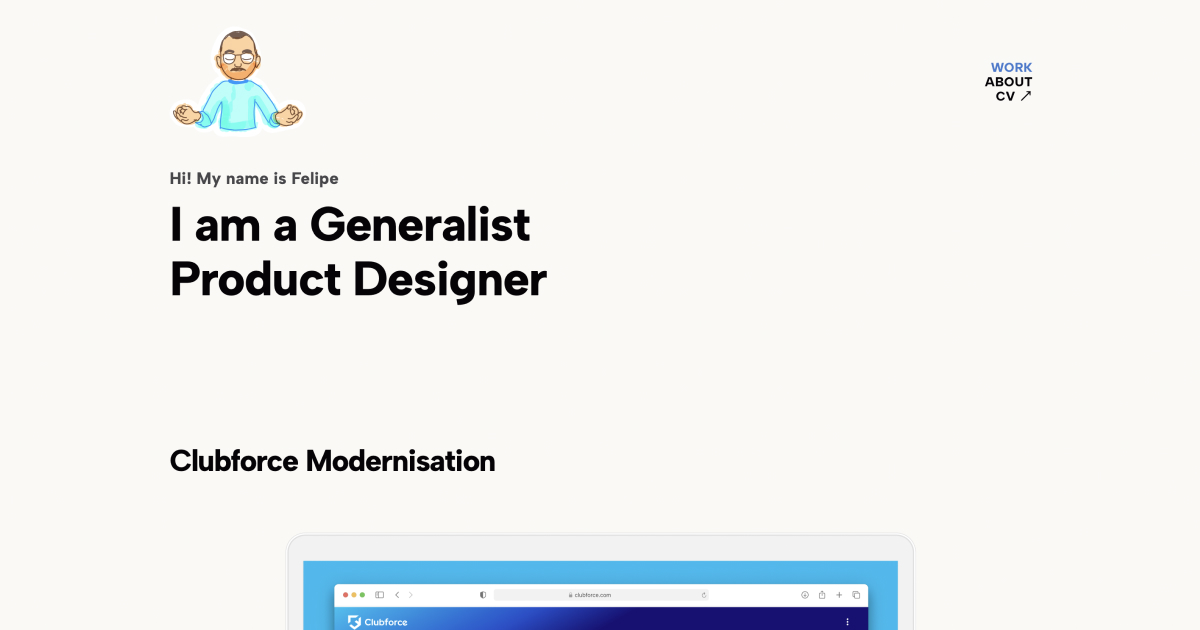
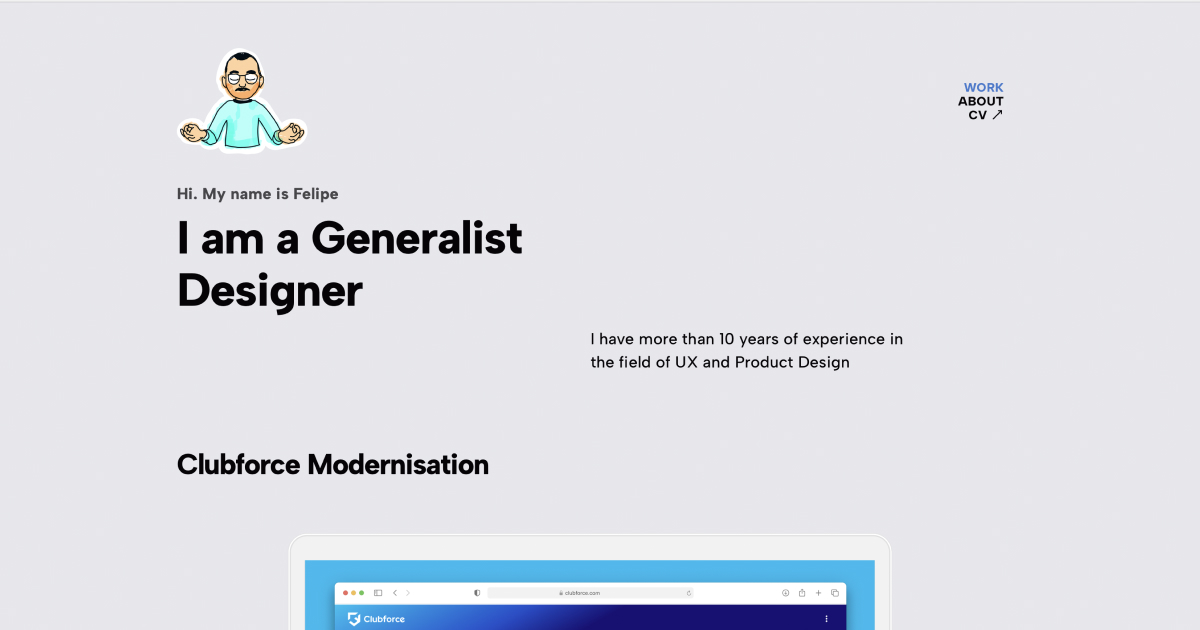
quick fixes

diff --git a/index.html b/index.html
@@ -1,8 +1,8 @@
 ---
 layout: default
-overtitle: Hi! My name is Felipe
-title: I am a Generalist Product Designer
-description: Solving problems — big and small — through thoughtful design.
+overtitle: Hi. My name is Felipe
+title: I am a Generalist Designer
+description: I have more than 10 years of experience in the field of UX and Product Design
 featured_image: /images/social.jpg
 ---
 
@@ -20,7 +20,7 @@ featured_image: /images/social.jpg
 			</div>
 
 			<p class="intro subtitle--light">
-				<!-- {{ page.description }} -->
+				{{ page.description }}
 			</p>
 		</div>
 	</section>
@@ -46,7 +46,7 @@ featured_image: /images/social.jpg
 					<p class="project__description">
 						{{ project.description }}
 						<a href="{{ project.url | relative_url }}" class="project__link button--text --right"
-							style="color: {{ accent_color }}; --color-var: {{ accent_color }}">More details</a>
+							style="color: {{ accent_color }}; --color-var: {{ accent_color }}">View case study &rarr;</a>
 					</p>
 				</div>
 			</article>

diff --git a/_sass/_includes/_section__hero.scss b/_sass/_includes/_section__hero.scss
@@ -15,7 +15,6 @@
 
 	.title {
 		margin-bottom: 24px;
-		max-width: 380px;
 	}
 
 	.title .subtitle {
